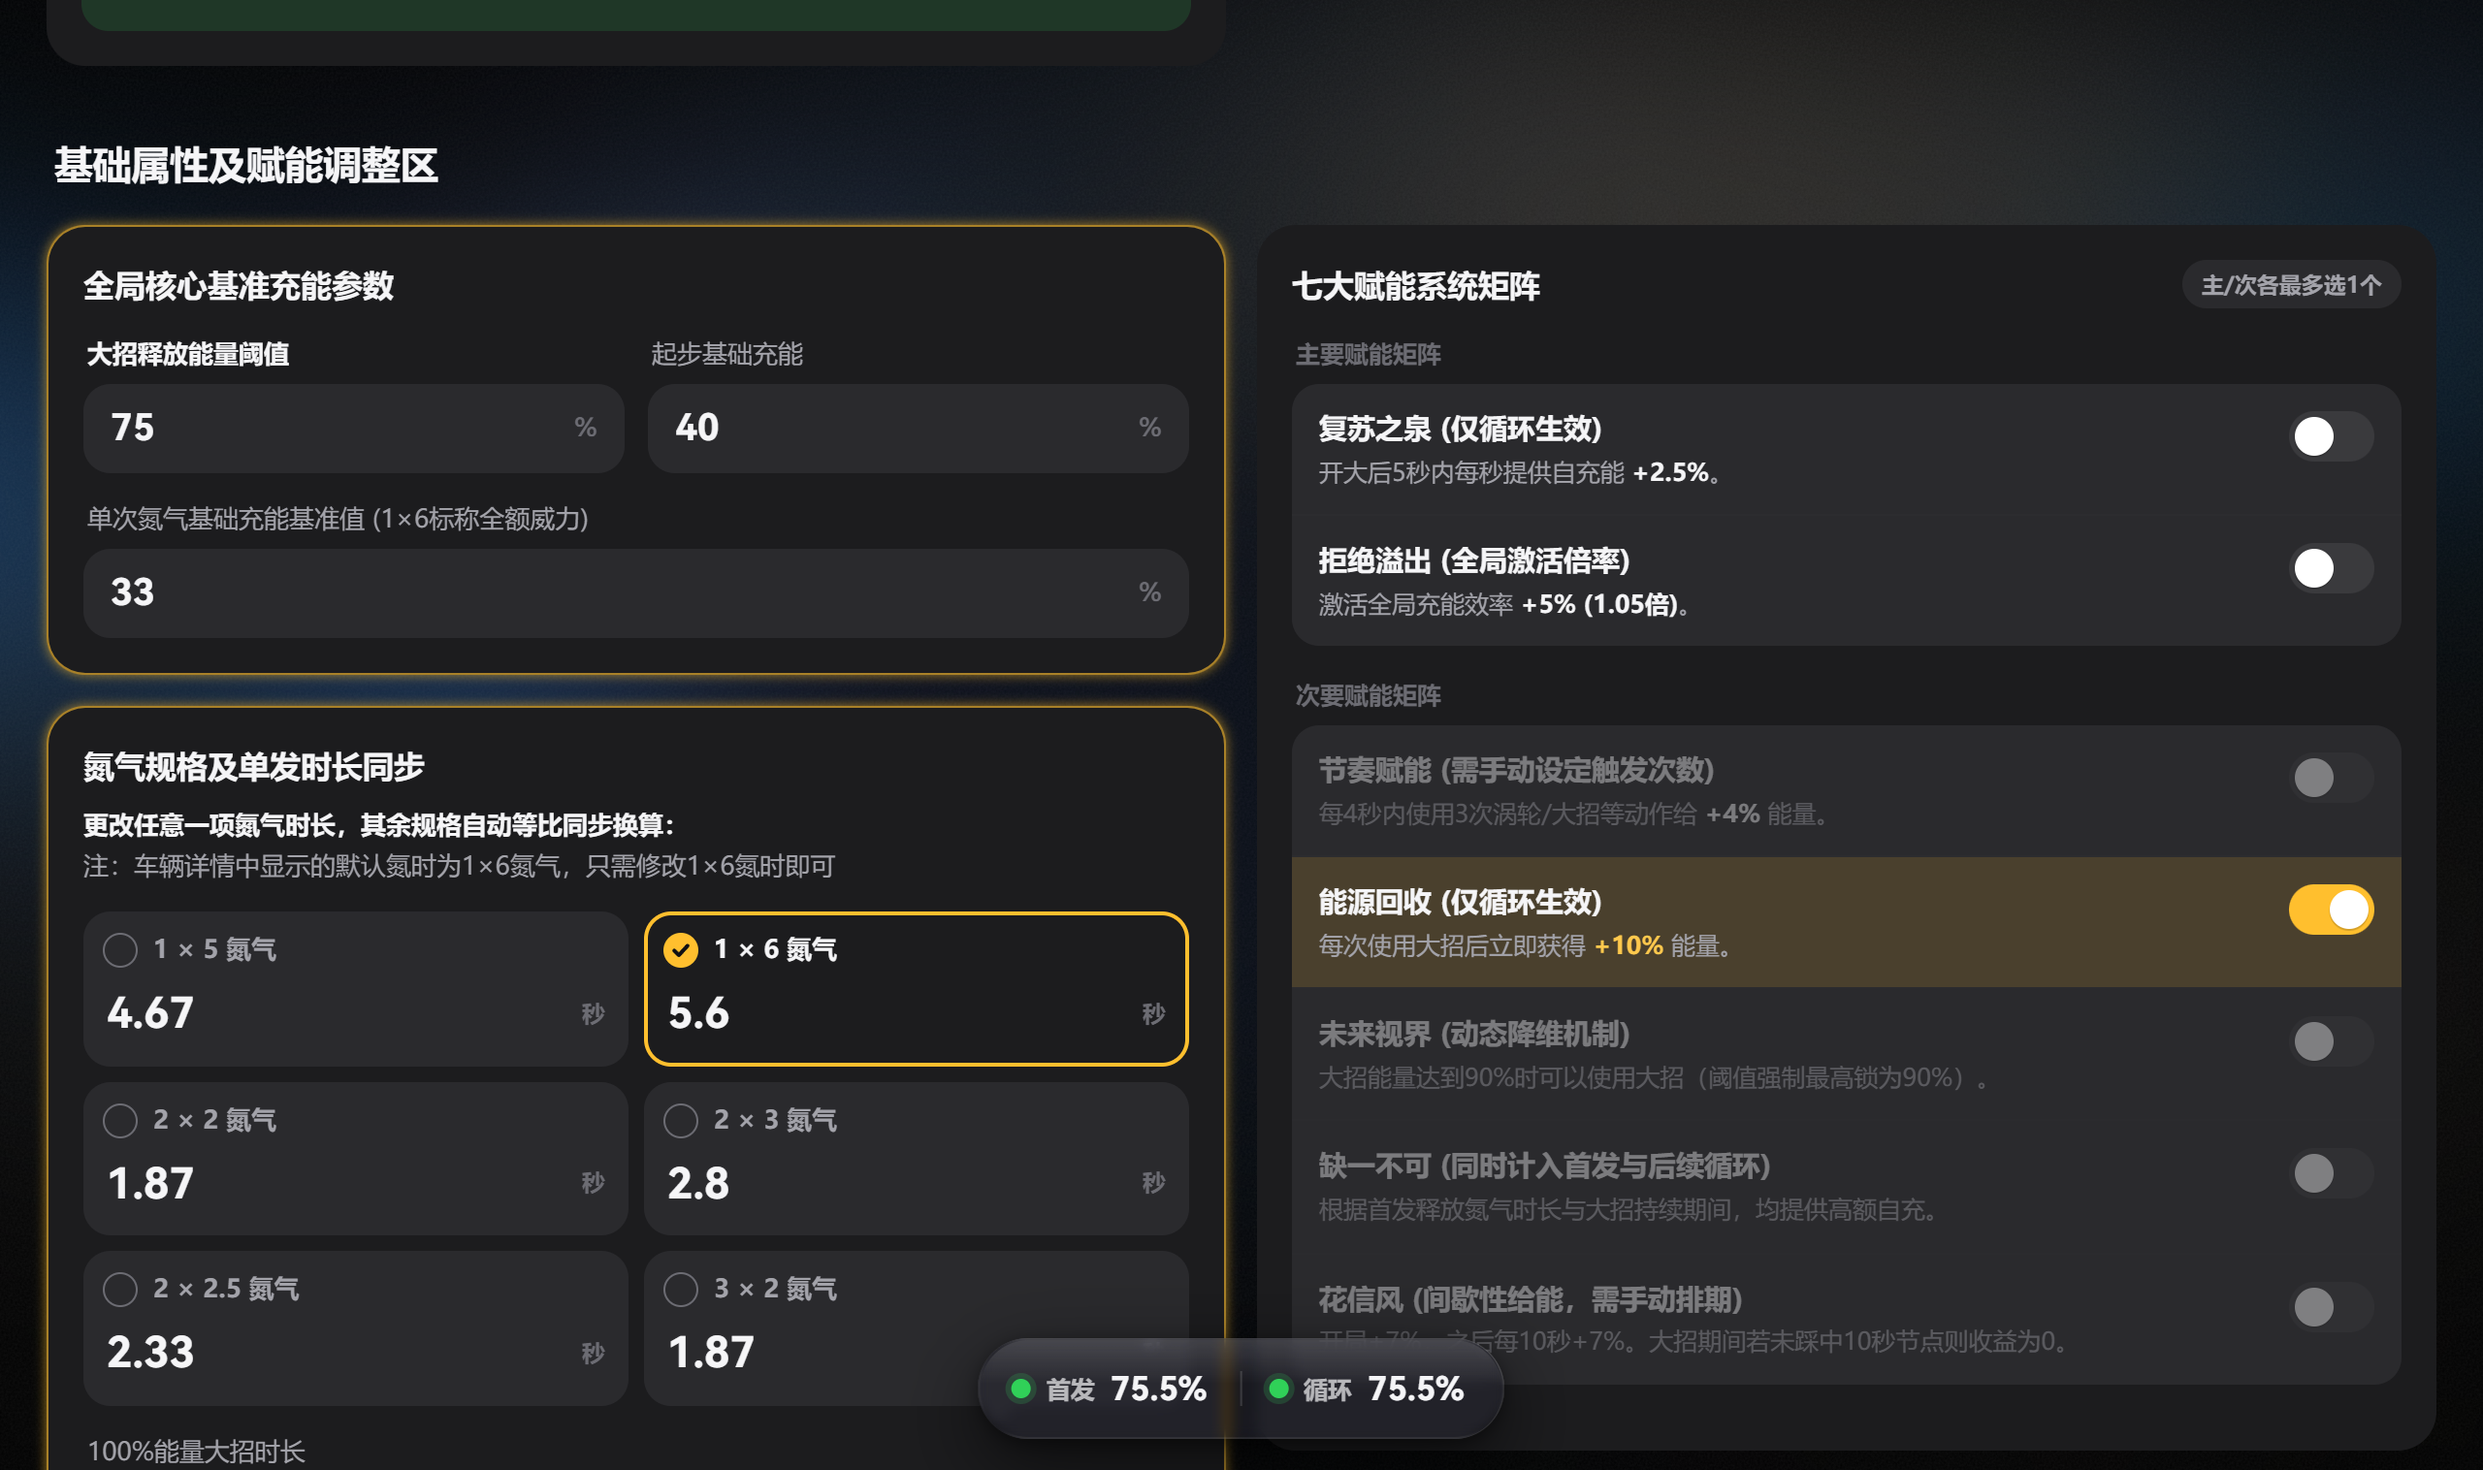
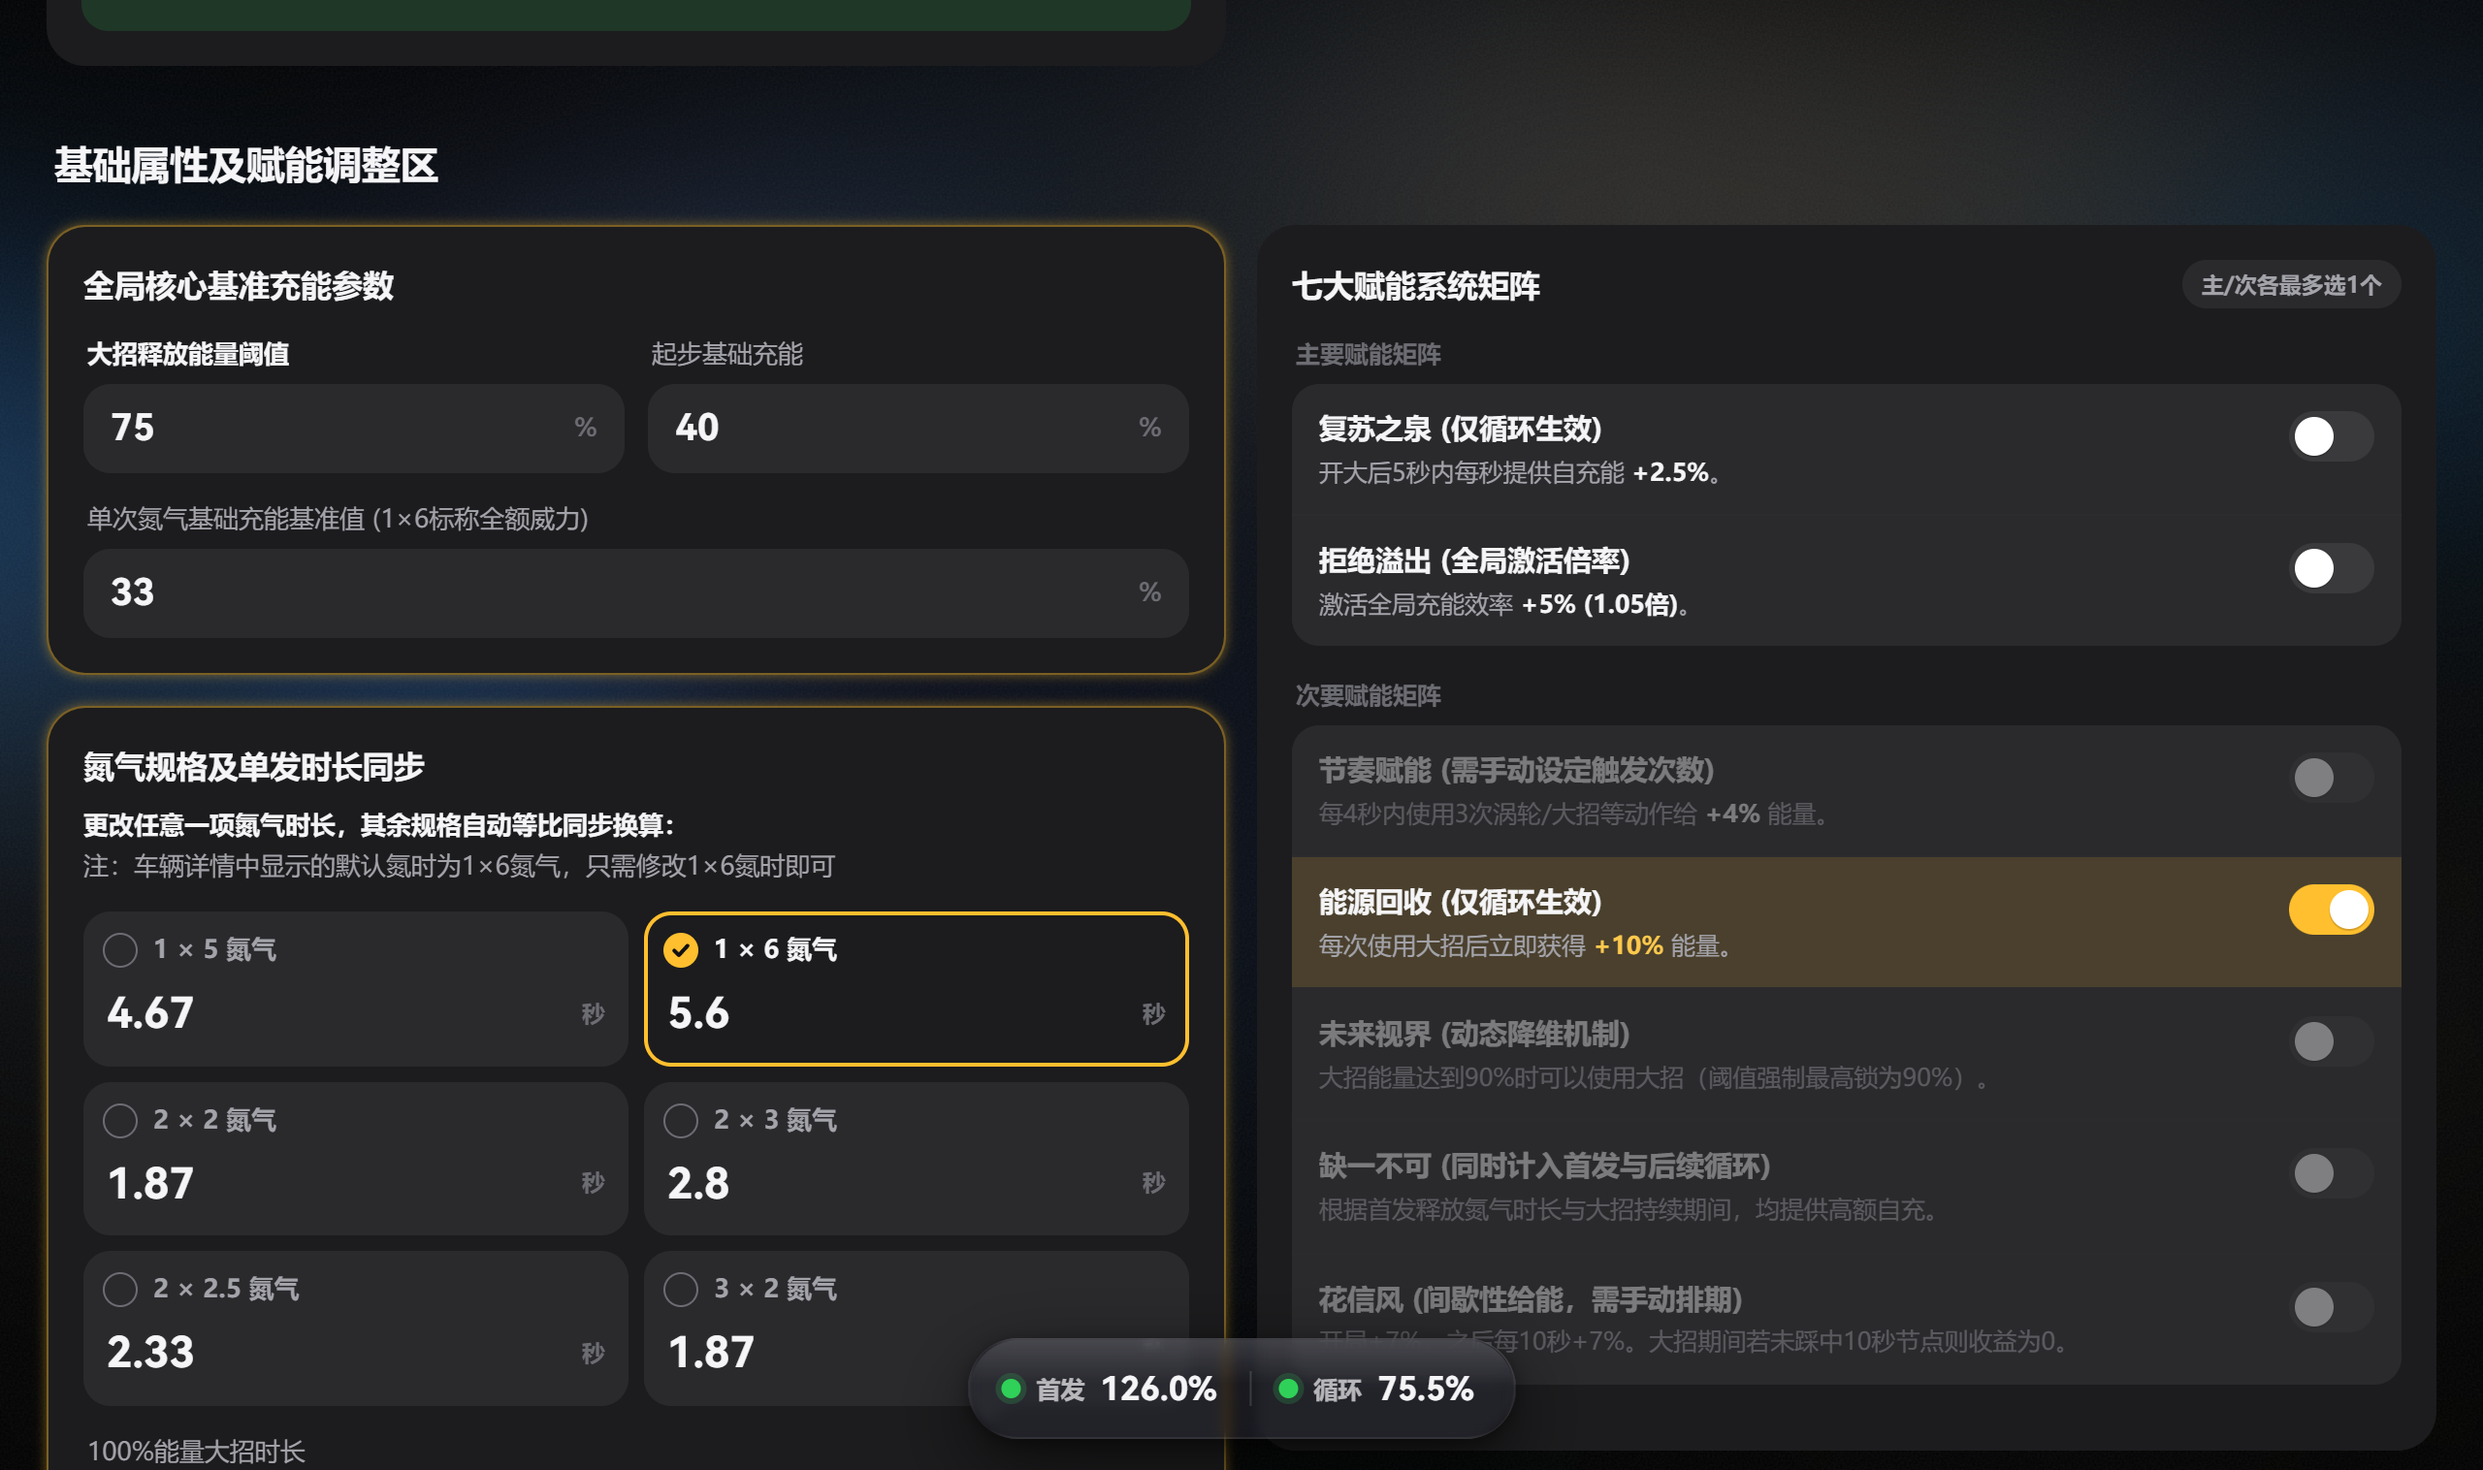
fix: 修正 dock 速览「首发」显示循环数字（data-target 兼职导致归属判断失效）
- 根因：上一次修 dock 跳转落点时，把 dock 项的 data-target 从 resultCardFirst/Loop 改成了
  calcAreaFirst/Loop，但 renderDock 里仍在用 dataset.target === 'resultCardFirst' 判断归属，
  该判断永远不成立 → 两项都落到 res.loop，于是 dock 的「首发」显示的是循环的数字
  （用户反馈的链接里表现为两项恒为 73.4%，而实际首发为 70.360%）。
- 修法：dock 项改用专门的 data-gauge="first|loop" 判定归属（不再让「跳转目标」属性兼职），
  并保留兼容判断（新旧两种 target 值都认）作为双保险，避免以后再改跳转目标时被带歪。
- 同步重拍 3 张受影响的 PWA 截图（旧图里的 dock 也是错误版本；新图显示
  「首发 126.0% | 循环 75.5%」两个不同的值）。
- 验证：新增 dock 数字专项断言（dock 的数字与状态必须与对应结果一致），三个场景
  （用户反馈的分享链接 / 手工改参 / 未上线车辆）全部通过；完整回归与业务一致性校验通过。

Changed region(s): [[0.4062, 0.9301, 0.5938, 0.9611]]

diff --git a/index.html b/index.html
@@ -1448,8 +1448,8 @@ body.ds-c.performance-mode .ds-dock { background: var(--cell); }
 </div>
 
 <nav class="ds-dock" data-html2canvas-ignore="true" aria-label="结果速览">
-  <button type="button" class="ds-dock-item" data-target="calcAreaFirst" data-target-fallback="resultCardFirst" data-state="idle"><span class="ds-dock-k"><span class="zh">首发</span><span class="lang-en">1st Ult</span></span><span class="ds-dock-v">--</span></button>
-  <button type="button" class="ds-dock-item" data-target="calcAreaLoop" data-target-fallback="resultCardLoop" data-state="idle"><span class="ds-dock-k"><span class="zh">循环</span><span class="lang-en">Loop</span></span><span class="ds-dock-v">--</span></button>
+  <button type="button" class="ds-dock-item" data-gauge="first" data-target="calcAreaFirst" data-target-fallback="resultCardFirst" data-state="idle"><span class="ds-dock-k"><span class="zh">首发</span><span class="lang-en">1st Ult</span></span><span class="ds-dock-v">--</span></button>
+  <button type="button" class="ds-dock-item" data-gauge="loop" data-target="calcAreaLoop" data-target-fallback="resultCardLoop" data-state="idle"><span class="ds-dock-k"><span class="zh">循环</span><span class="lang-en">Loop</span></span><span class="ds-dock-v">--</span></button>
 </nav>
 <div id="copyToast" class="copy-toast"><span class="zh">操作成功！</span><span class="lang-en">Operation Successful!</span></div>
 <script>
@@ -3651,7 +3651,13 @@ if (typeof CAR_DATABASE !== 'undefined') {
   function renderDock(res) {
     var items = document.querySelectorAll('.ds-dock-item');
     for (var i = 0; i < items.length; i++) {
-      var r = items[i].dataset.target === 'resultCardFirst' ? res.first : res.loop;
+      // 用专门的 data-gauge 判定这是「首发」还是「循环」。
+      // 别再拿 data-target 判断：那个属性是给「跳转」用的（后来从 resultCard* 改成了 calcArea*），
+      // 改过一次就把这里的对应关系带错了 —— 两项都落到 loop，导致 dock 的「首发」显示循环的数字。
+      // 兜底同时认新旧两种 target 值，双保险。
+      var tgt = items[i].dataset.target;
+      var key = items[i].dataset.gauge || ((tgt === 'resultCardFirst' || tgt === 'calcAreaFirst') ? 'first' : 'loop');
+      var r = key === 'first' ? res.first : res.loop;
       if (!r) continue;
       items[i].dataset.state = r.idle ? 'idle' : (r.pass ? 'pass' : 'fail');
       items[i].querySelector('.ds-dock-v').textContent = r.idle || !isFinite(r.total) ? '--' : r.total.toFixed(1) + '%';
